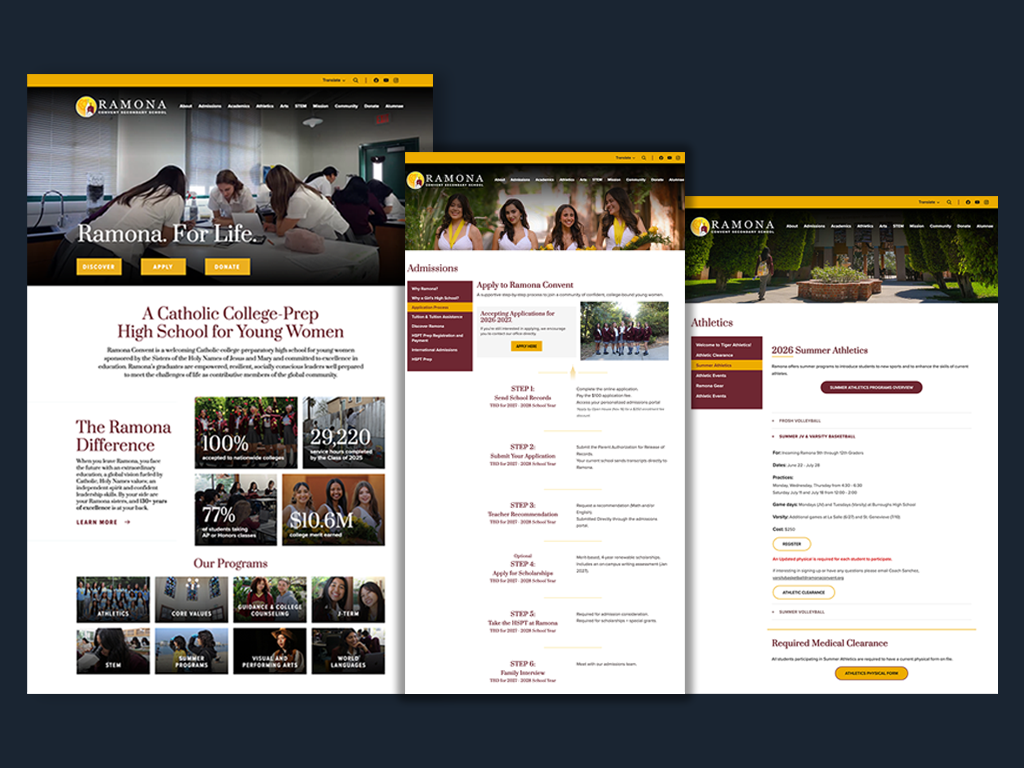
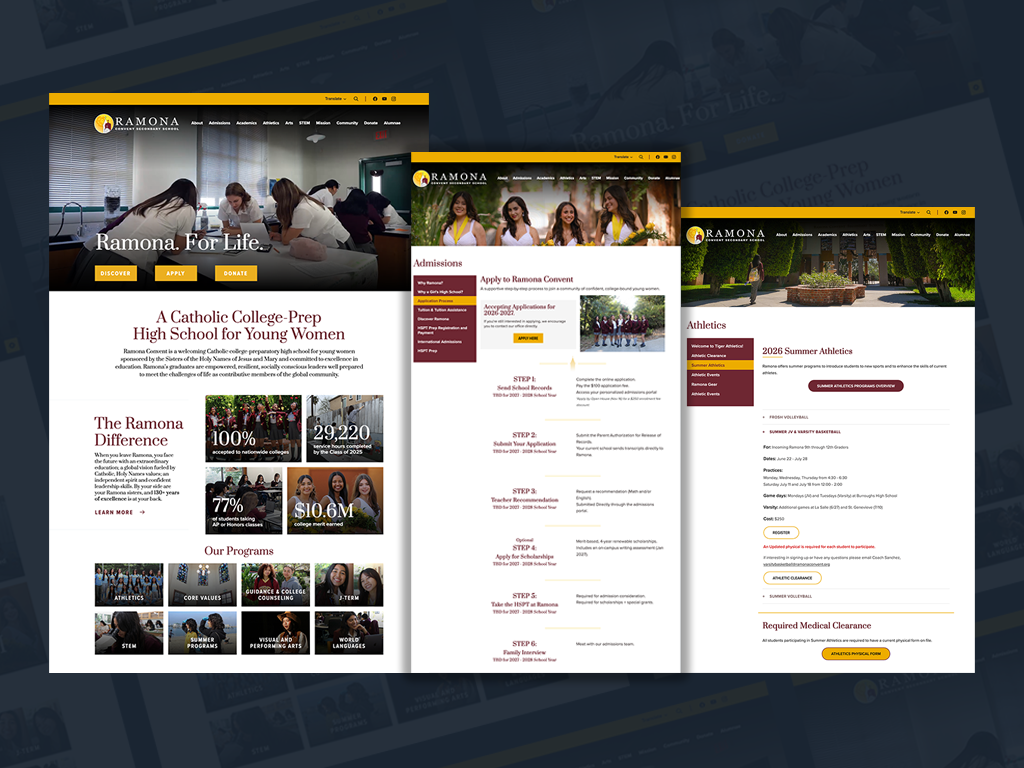
Update project descriptions, enhance styling, and add technology experience section

diff --git a/src/pages/Projects.jsx b/src/pages/Projects.jsx
@@ -3,13 +3,29 @@ import projectData from "../data/projectData"
 
 const Projects = () => {
     const projectsList = projectData.map( project => ( <ProjectCard key={project.id} {...project} /> ))
+    // const technologyList = technologyData.map( technology => ( <TechnologyCard key={technology.id} {...technology} /> ))
     return (
         <section className="flex-col mx-auto my-8 mt-10 md:mt-12 md:w-[85%] lg:w-[75%] xl:w-2/3">
                                     {/* text-primaryText */}
-            <h1 className="text-5xl text-secondaryText mb-10 font-semibold md:p-10 md:mb-0 text-center " id="projects">Notable Work</h1>
+            <h1 className="text-4xl text-secondaryText mb-10 font-semibold md:p-10 md:mb-0 text-center " id="projects">Notable Work</h1>
 
             <div className="flex-col justify-between mx-auto">
                 {projectsList}
+            </div>
+
+            <h1 className="text-3xl text-secondaryText mb-10 font-semibold md:p-10 md:mb-0 text-center " id="projects">Technology Experience</h1>
+            <div className="flex flex-col items-start justify-center py-20 px-10 gap-4 rounded-xl bg-mediumOpaque">
+                <h3 className="text-2xl text-primaryText">Front-end Web Development</h3>
+                <p className="text-lg text-slate-300">Multiple combined years of both personal and professional experience building applications using modern web development technologies:</p>
+                <div className="flex flex-row gap-4">
+                    <p className="bg-lightOpaque px-2 py-2 rounded-xl text-secondaryText shadow-sm">Javascript</p>
+                    <p  className="bg-lightOpaque px-2 py-2 rounded-xl text-secondaryText shadow-sm">HTML/CSS</p>
+                    <p  className="bg-lightOpaque px-2 py-2 rounded-xl text-secondaryText shadow-sm">React</p>
+                    <p  className="bg-lightOpaque px-2 py-2 rounded-xl text-secondaryText shadow-sm">NextJS</p>
+                    <p  className="bg-lightOpaque px-2 py-2 rounded-xl text-secondaryText shadow-sm">NodeJS</p>
+                    <p  className="bg-lightOpaque px-2 py-2 rounded-xl text-secondaryText shadow-sm">SQL</p>
+                    <p  className="bg-lightOpaque px-2 py-2 rounded-xl text-secondaryText shadow-sm">Java</p>
+                </div>
             </div>
 
         </section>

diff --git a/src/data/projectData.js b/src/data/projectData.js
@@ -5,9 +5,8 @@ const projectData = [
 		title: 'Von Tobel Middle School',
 		url: 'https://www.vontobelms.com/',
 		repo: null,
-		description:
-			"A Simple, responsive and eyecatching mock landing page to market a company's data tracking services.",
-		skills: ['HTML', 'Tailwind', 'JavaScript'],
+		description: "Implemented a custom, responsive, animation-driven landing page section to display school's core values in multiple languages.",
+		skills: ['HTML','CSS','JavaScript','Java'],
 	},
 	{
 		id: 2,
@@ -15,9 +14,8 @@ const projectData = [
 		title: 'Ramona Covent Secondary',
 		url: 'https://www.ramonaconvent.org/',
 		repo: null,
-		description:
-			"A Web application that stylized as a mobile app, which allows man's best friend to search for their own companions virtually.",
-		skills: ['HTML', 'CSS', 'JavaScript'],
+		description: "Implemented a responsive landing page layout re-design, and multi-page custom design for admission application processing and athletics applications.",
+		skills: ['HTML','CSS'],
 	},
 	{
 		id: 3,
@@ -25,9 +23,8 @@ const projectData = [
 		title: 'Norborne R.VIII School District',
 		url: 'https://www.norborneschools.com/',
 		repo: null,
-		description:
-			'A simplified mock twitter application stylizes as a mobile app that allows users to create, view and delete posts.',
-		skills: ['HTML', 'CSS', 'JavaScript', 'Flexbox'],
+		description: "Implemented a custom, 2-column, responsive landing page section involving School calendar with CMS integration and embedded social media display.",
+		skills: ['HTML', 'CSS'],
 	},
 	{
 		id: 4,
@@ -35,9 +32,8 @@ const projectData = [
 		title: 'Mater East Charter School',
 		url: 'https://www.matereast.org/',
 		repo: null,
-		description:
-			'A Responsive and simplified multi-page web application in the style of a personal coding blog.',
-		skills: ['HTML', 'CSS', 'JavaScript', 'Java'],
+		description: 'Collaborated with school administration to Implement a custom and responsive landing page section for mission statement and principal display.',
+		skills: ['HTML', 'CSS'],
 	},
 ];
 export default projectData;

diff --git a/tailwind.config.js b/tailwind.config.js
@@ -5,8 +5,8 @@ export default {
 		extend: {
 			colors: {
 				// Dark version -
-				primaryText: '#c6c6c6',
-				secondaryText: '#bfbfbfx',
+				primaryText:'#e2e8f0',
+				secondaryText: '#cbd5e1',
 				primaryBg: '#253242',
 				secondaryBg: '#1A2532',
 				primaryBtn: '#3f9790',
